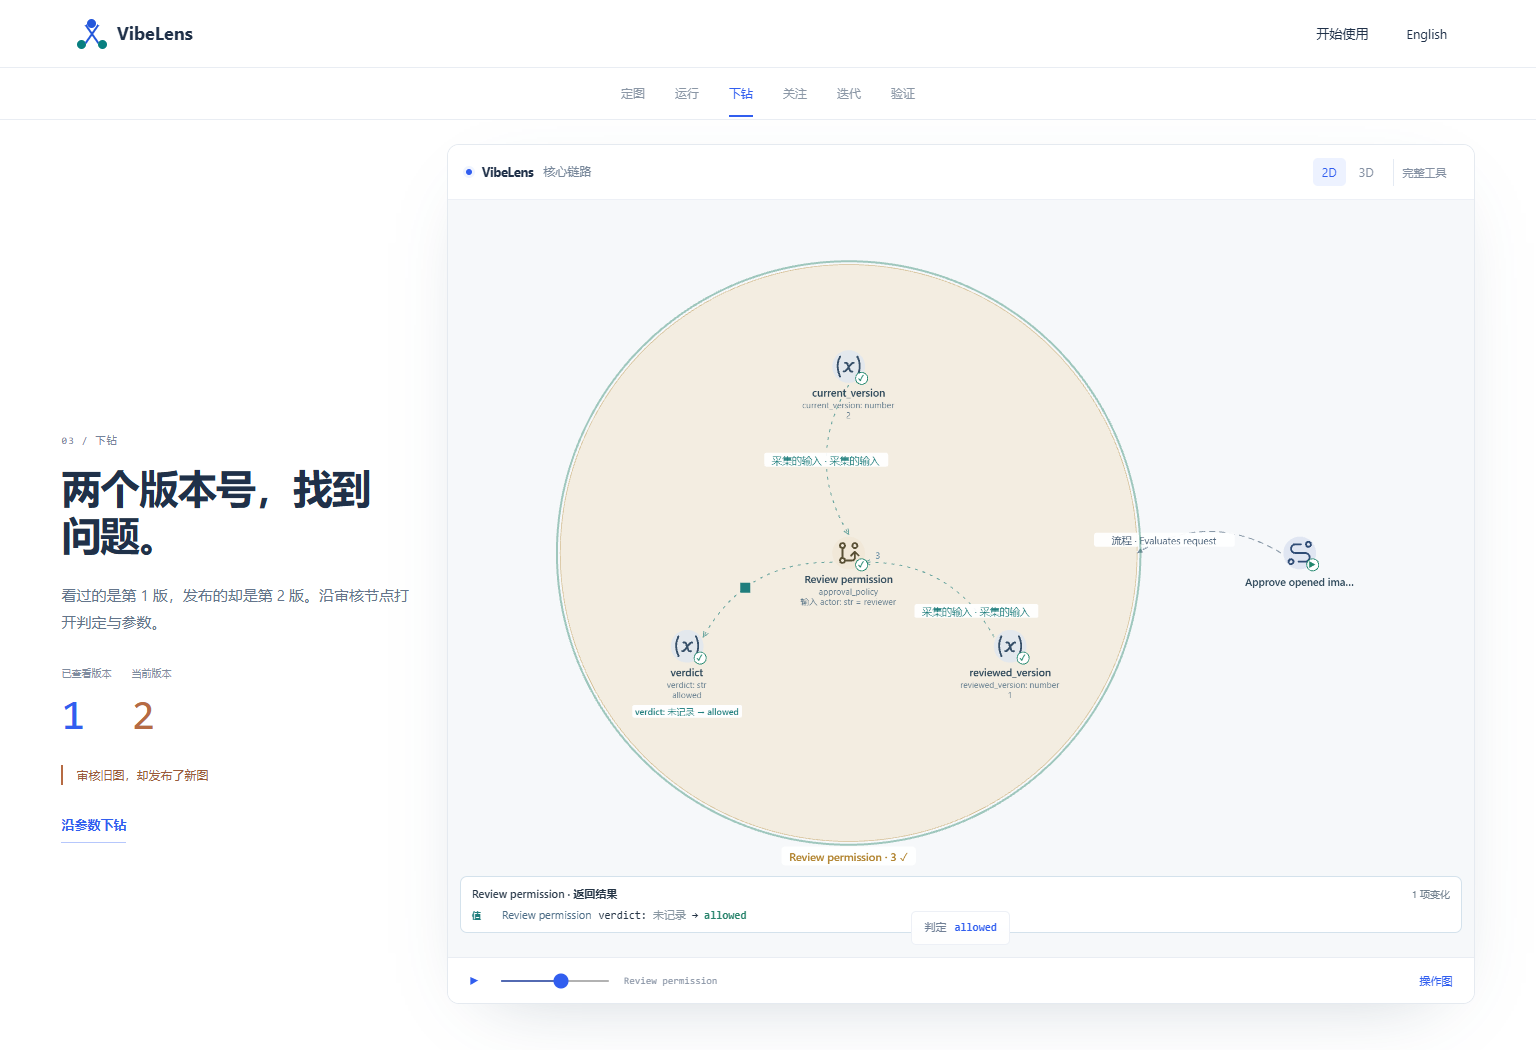
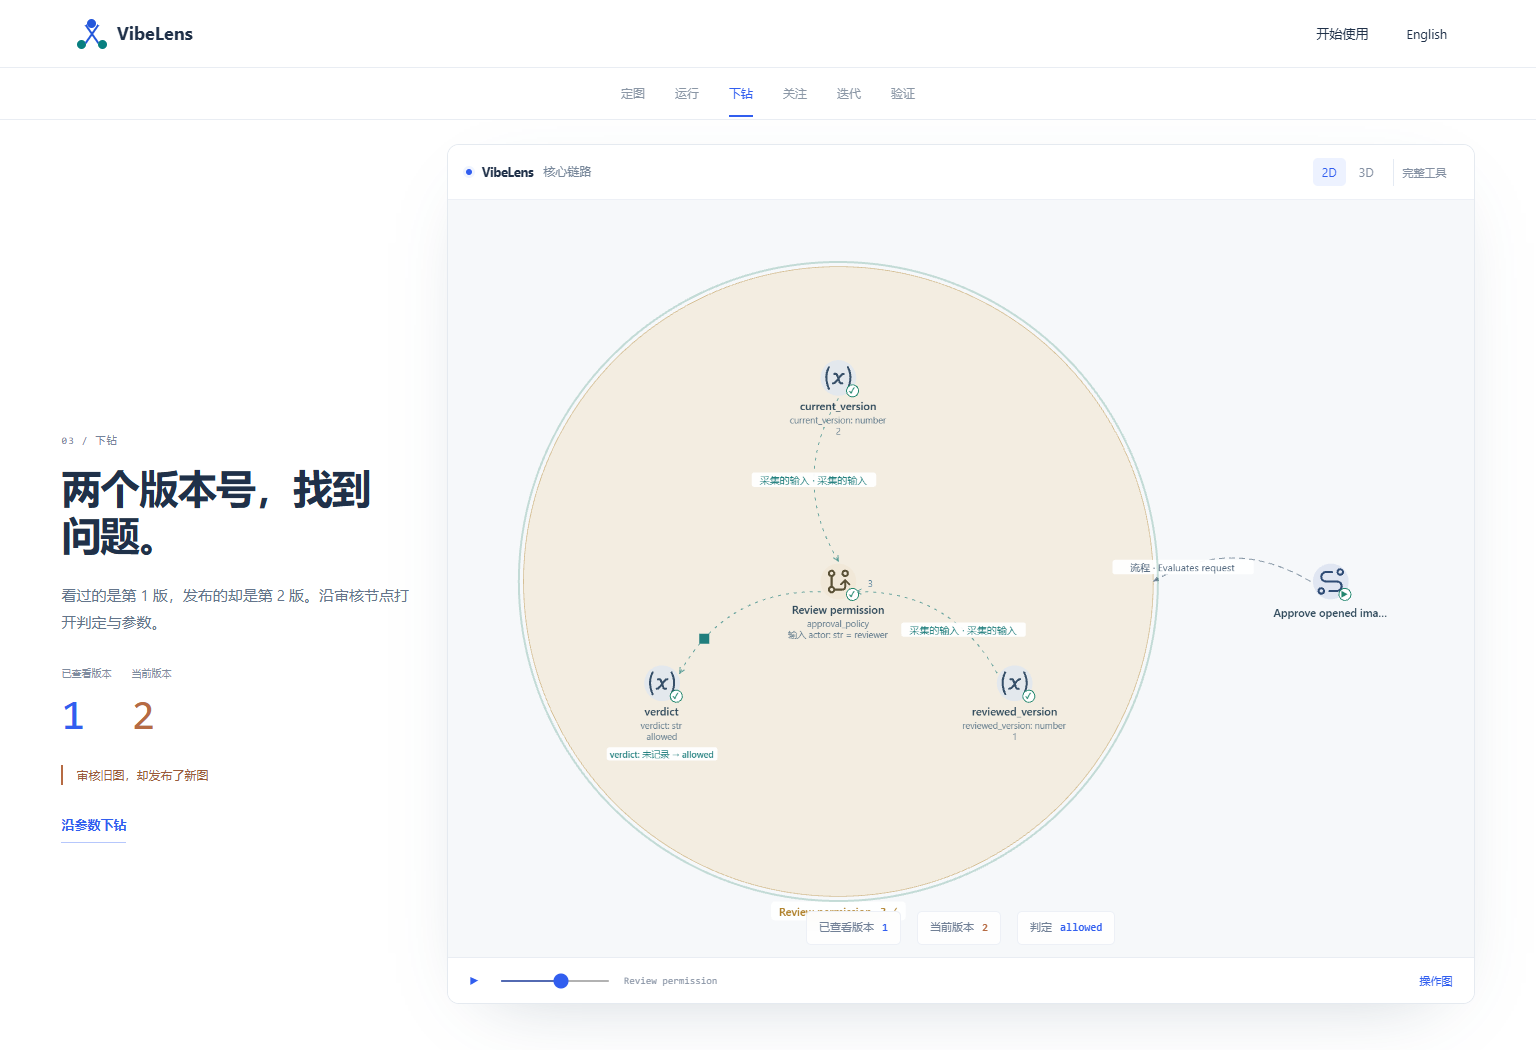
fix(pages): keep compact replay facts tied to their recorded call
Hide the native detail panel in the compact walkthrough while preserving it in Full tools. Resolve missing return-event inputs from the matching enter event and show the exact recorded versions and verdict.

Restore the most recently saved custom view across iterations, test multiple saved views, refresh screenshots, and bump presentation asset URLs to avoid stale browser caches.

diff --git a/docs/site/demo.html b/docs/site/demo.html
@@ -10,9 +10,9 @@
     <title>VibeLens — Follow the logic</title>
     <link rel="icon" href="favicon.svg" type="image/svg+xml" />
     <link rel="stylesheet" href="site.css?rev=0.8.1" />
-    <link rel="stylesheet" href="scroll-story.css?rev=story-1" />
-    <link rel="stylesheet" href="case.css?rev=story-1" />
-    <script type="module" src="case.mjs?rev=story-1"></script>
+    <link rel="stylesheet" href="scroll-story.css?rev=story-2" />
+    <link rel="stylesheet" href="case.css?rev=story-2" />
+    <script type="module" src="case.mjs?rev=story-2"></script>
   </head>
   <body class="demo-story">
     <a class="skip" href="#foundation" data-i18n="skip">Skip to content</a>
@@ -64,7 +64,7 @@
             <iframe
               id="case-graph"
               title="VibeLens interactive graph"
-              src="viewer/index.html?case=1&amp;lang=en&amp;rev=story-1"
+              src="viewer/index.html?case=1&amp;lang=en&amp;rev=story-2"
               tabindex="-1"
             ></iframe>
             <div class="case-telemetry" id="case-telemetry" aria-live="polite"></div>

diff --git a/docs/site/case-canvas.css b/docs/site/case-canvas.css
@@ -16,7 +16,7 @@ body[data-case-compact="true"] #layer-drawer,
 body[data-case-compact="true"] .view-tools {
   display: none !important;
 }
-body[data-case-compact="true"] #changes {
+body[data-case-compact="true"] #step-changes {
   display: none !important;
 }
 body[data-case-compact="true"] #viewport {
@@ -27,10 +27,6 @@ body[data-case-compact="true"] #viewport {
 body[data-case-compact="true"] .workspace {
   height: 100% !important;
   min-height: 0 !important;
-}
-body[data-case-compact="true"] #changes {
-  max-width: 65%;
-  font-size: 10px;
 }
 body[data-case-compact="true"] .spatial-label {
   font-size: 11px;

diff --git a/docs/site/index.html b/docs/site/index.html
@@ -9,9 +9,9 @@
     />
     <title>VibeLens — Understand what you build</title>
     <link rel="stylesheet" href="site.css?rev=0.8.1" />
-    <link rel="stylesheet" href="scroll-story.css?rev=story-1" />
+    <link rel="stylesheet" href="scroll-story.css?rev=story-2" />
     <link rel="icon" href="favicon.svg" type="image/svg+xml" />
-    <script type="module" src="site.js?rev=story-1"></script>
+    <script type="module" src="site.js?rev=story-2"></script>
   </head>
   <body class="product-story">
     <a class="skip" href="#main" data-i18n="skip">Skip to content</a>

diff --git a/docs/site/site.js b/docs/site/site.js
@@ -1,5 +1,5 @@
-import { revealSections } from "./scroll-story.mjs?rev=story-1";
-import { initialize, t, locale, onLanguageChange } from "./site-ui.mjs?rev=story-1";
+import { revealSections } from "./scroll-story.mjs?rev=story-2";
+import { initialize, t, locale, onLanguageChange } from "./site-ui.mjs?rev=story-2";
 
 const views = ["business", "state", "decision", "function", "data", "source", "mixed"];
 let view = "business";

diff --git a/tools/build_site_viewer.py b/tools/build_site_viewer.py
@@ -26,7 +26,7 @@ def build():
         hashes[source.name] = hashlib.sha256(source.read_bytes()).hexdigest()
     html = (SOURCE / "index.html").read_text(encoding="utf-8")
     html = html.replace('href="/', 'href="./').replace('src="/', 'src="./')
-    html = html.replace('src="./viewer.js"', 'src="../case-viewer.mjs?rev=story-1"')
+    html = html.replace('src="./viewer.js"', 'src="../case-viewer.mjs?rev=story-2"')
     (TARGET / "index.html").write_text(html, encoding="utf-8")
     (TARGET / "asset-proof.json").write_text(json.dumps(hashes, indent=2) + "\n", encoding="utf-8")
     print(f"Built Pages case viewer from {len(hashes)} canonical files")

diff --git a/docs/review/scroll-story/README.md b/docs/review/scroll-story/README.md
@@ -28,7 +28,7 @@ The product introduction and recorded-project demo now use native vertical scrol
 | Product introduction | Seven connected view previews, translated captions, interactive tour and separate practice recording |
 | Source checks | Syntax, lint and formatting pass; see source-quality.json for scope |
 | Captured artifacts | Source freshness, actual version mismatch, red/green outcomes, transformations and stable IDs pass |
-| Viewer integrity | 65 canonical assets retain their hashes; the Pages HTML alone changes asset paths and entrypoint |
+| Viewer integrity | 65 canonical source hashes recorded; 64 assets copied byte for byte; the adapted Pages HTML changes asset paths and entrypoint |
 
 Receipts: [demo browser](demo-browser.json), [product browser](product-browser.json), [source checks](source-quality.json), [viewer hashes](viewer-asset-proof.json). Screenshots show the tested local build; deployed verification is recorded separately after publication.
 
@@ -47,6 +47,8 @@ Preserved diagnostic receipts are in [failures](failures/).
 | Preference assertions ran before the native save completed | Wait for the saved preference document, then reload and compare the same view ID and node set. |
 | The second locale imported an unrelated legacy view | Give the Pages demonstration an initialized, locale-specific preference document. Both languages now retain only their own saved views. |
 | A collapsed database group showed no internal relation yet | Expand the native group before asserting its relation structure. No source or captured edge is fabricated. |
+| The compact change-panel selector did not match the canonical element | Hide step-changes in compact mode; Full tools retains the native details. |
+| A return event omitted its input fields | Resolve inputs from the enter event of the same call ID, then show the return verdict. The exact 1, 2, allowed display is asserted. |
 
 ## Files
 
